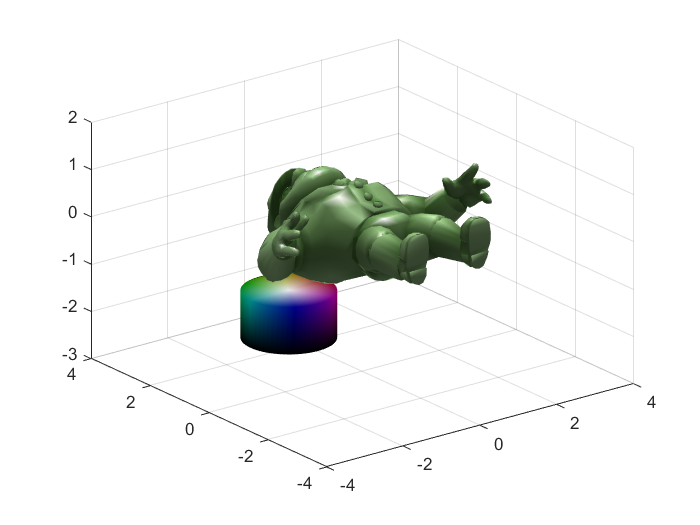
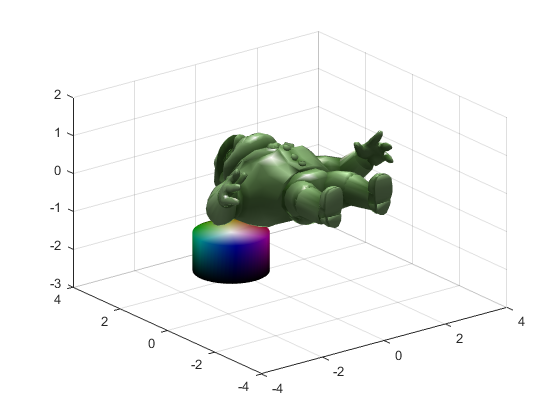
Signed-off-by: Nacu <a9101214@gmail.com>

diff --git a/Part2/readOBJFile.m b/Part2/readOBJFile.m
@@ -1,7 +1,7 @@
 clear all
 close all
 
-KaKdKs_Chooser = 4;
+KaKdKs_Chooser = 0;
 
 %% show the obj file at 3D figure
 al = fopen('al7KC.obj');
@@ -22,9 +22,9 @@ z_min = min(vertex_al(:,3));
 y_max = max(vertex_al(:,2));
 z_max = max(vertex_al(:,3));
 
-x_mid = (x_max+x_min)/2
-y_mid = (y_max+y_min)/2
-z_mid = (z_max+z_min)/2
+x_mid = (x_max+x_min)/2;
+y_mid = (y_max+y_min)/2;
+z_mid = (z_max+z_min)/2;
 
 shift = repmat([-x_mid -y_mid -z_mid],3618,1);
 vertex = vertex + shift;
@@ -36,8 +36,10 @@ vertex = vertex + shift;
 [Cfaces , Cverts , CvertColors, CtopVertIndex , CbotVertIndex] = DrawCy();
 C_v_shift = repmat([0,2.5,-2.5],122,1);
 C_f_shift = repmat([C_faces_offset C_faces_offset C_faces_offset] , 242,1);
+
 Cfaces = Cfaces + C_f_shift;
 Cverts = Cverts  + C_v_shift;
+
 faces = [ faces ; Cfaces ];
 vertex = [vertex ; Cverts];
 colors = [colors ; CvertColors];
@@ -56,5 +58,5 @@ else
 end
 Directional = 'infinite';
 Position = 'local';
-light('Position',[0.0,0.0,5.0],'Style',Directional);
+light('Position',[0.0,0.0,5.0], 'Style', Directional, 'Visible', 'on');
 lighting phong;

diff --git a/Part2/Problem2_b.m b/Part2/Problem2_b.m
@@ -2,3 +2,8 @@ clear all; close all; clc;
 [faces , verts , vertColors, topVertIndex , botVertIndex] = DrawCy();
 
 trisurf(faces,verts(:,1),verts(:,2),verts(:,3),'FaceVertexCData', vertColors,'FaceColor','interp', 'EdgeAlpha', 0);
+
+Directional = 'infinite';
+Position = 'local';
+%light('Position',[0.0,0,999], 'Style', Directional, 'Visible', 'on');
+%lighting phong;
